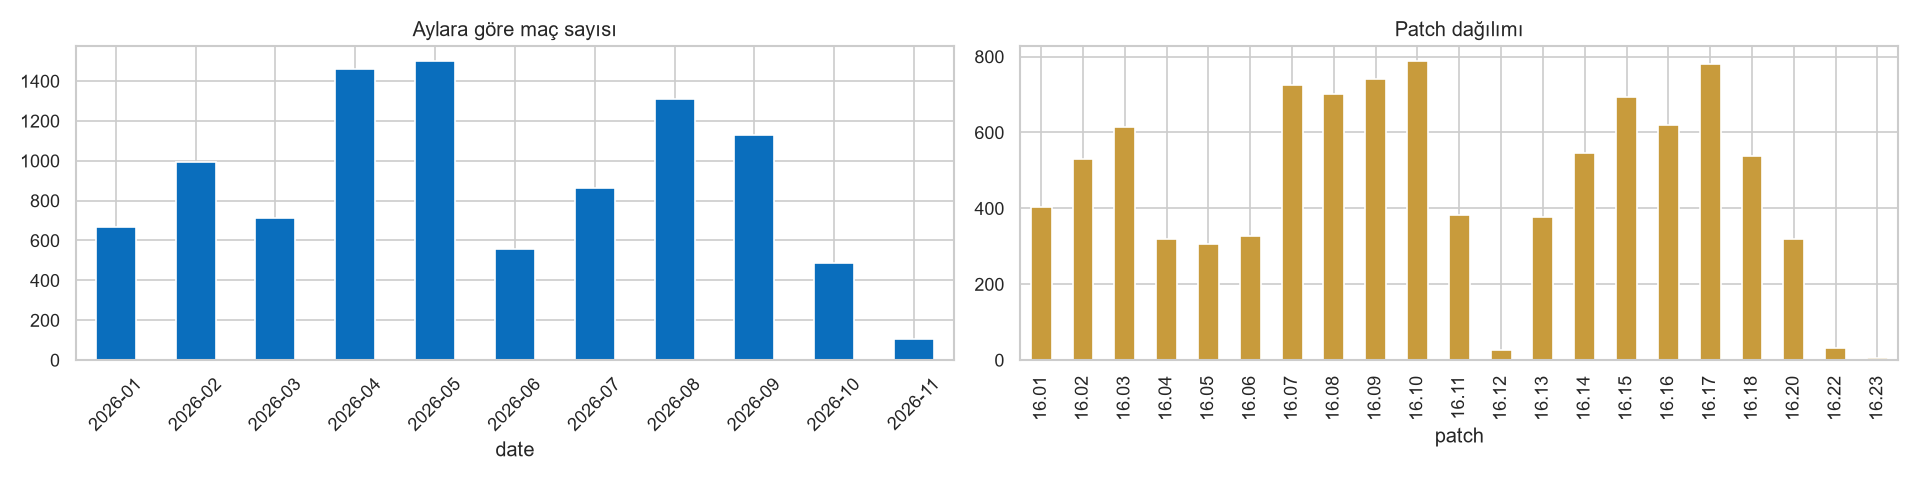
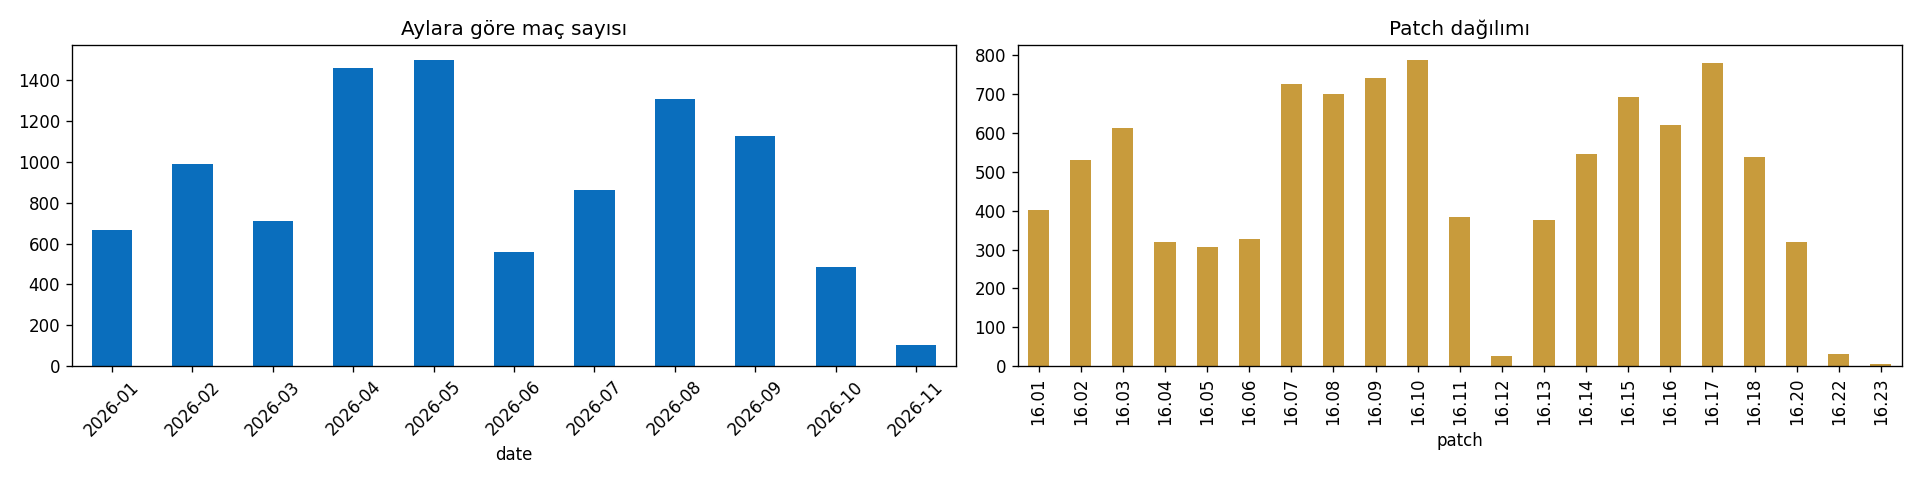
Finalize patch parsing and esports reporting (#2)

diff --git a/tests/test_app.py b/tests/test_app.py
@@ -1,7 +1,13 @@
+import json
+from pathlib import Path
+
 import pytest
 from streamlit.testing.v1 import AppTest
 
 from src.predict import load_model, predict_blue_win
+from src import train
+
+APP_PATH = str(Path(__file__).resolve().parents[1] / "app.py")
 
 # (Blue kill, Red kill, altın, XP, CS) – arayüzdeki form sırası
 SCENARIOS = [(0, 0, 0, 0, 0), (5, 1, 3000, 1500, 30), (1, 6, -4000, -2500, -50), (16, 0, 7500, 6500, 160)]
@@ -12,14 +18,14 @@ def _pct(metric):
 
 
 def test_app_runs_with_defaults():
-    at = AppTest.from_file("../app.py", default_timeout=60).run()
+    at = AppTest.from_file(APP_PATH, default_timeout=60).run()
     assert not at.exception
     assert [t.label for t in at.tabs] == ["🎯 Tahmin", "📊 Performans", "ℹ Hakkında"]
 
 
 @pytest.mark.parametrize("inputs", SCENARIOS)
 def test_app_prediction_matches_model(inputs):
-    at = AppTest.from_file("../app.py", default_timeout=60).run()
+    at = AppTest.from_file(APP_PATH, default_timeout=60).run()
     for widget, value in zip(at.number_input, inputs):
         widget.set_value(value)
     at.button[0].click().run()   # formun "Tahmin et" butonu
@@ -33,3 +39,31 @@ def test_app_prediction_matches_model(inputs):
     assert _pct(blue) + _pct(red) == pytest.approx(100, abs=0.11)
     winner = next(m.value for m in at.markdown if "Tahmini kazanan" in m.value)
     assert ("Blue" in winner) == (expected >= 0.5)
+
+
+def test_historical_comparison_reads_report_and_handles_missing_file(tmp_path, monkeypatch):
+    metrics_path = tmp_path / "metrics.json"
+    metrics_path.write_bytes(train.METRICS_PATH.read_bytes())
+    monkeypatch.setattr(train, "METRICS_PATH", metrics_path)
+    at = AppTest.from_file(APP_PATH, default_timeout=60).run()
+    assert not at.exception
+    assert any("Tarihsel değerlendirme raporu henüz mevcut değil" in item.value for item in at.caption)
+
+    report = {
+        "models": {
+            "gold_only": {"test": {"brier": 0.2, "roc_auc": 0.72, "log_loss": 0.6}},
+            "five_features": {"test": {"brier": 0.19, "roc_auc": 0.75, "log_loss": 0.59}},
+        },
+        "split": {"test": {"games": 20}},
+        "brier_comparison": {"gold_only_minus_five_features": 0.01, "ci95": [-0.02, 0.03]},
+        "interpretation": "Örnek tarihsel yorum",
+    }
+    report_path = tmp_path / "esports" / "esports_metrics.json"
+    report_path.parent.mkdir()
+    report_path.write_text(json.dumps(report), encoding="utf-8")
+    at.run()
+    assert not at.exception
+    table = at.tabs[1].dataframe[-1].value.set_index("Model")
+    assert table.loc["Beş girdi"].to_dict() == {"Brier ↓": 0.19, "ROC-AUC ↑": 0.75, "Log-loss ↓": 0.59}
+    assert any("[-0.02000, +0.03000]" in item.value for item in at.caption)
+    assert any(item.value == report["interpretation"] for item in at.markdown)

diff --git a/src/train.py b/src/train.py
@@ -19,7 +19,6 @@ from sklearn.metrics import (ConfusionMatrixDisplay, accuracy_score, brier_score
                              f1_score, log_loss, precision_score, recall_score, roc_auc_score, roc_curve)
 from sklearn.model_selection import GridSearchCV, TimeSeriesSplit
 from sklearn.pipeline import Pipeline
-from xgboost import XGBClassifier
 
 from src.data import FEATURES, PROCESSED_PATH, ROOT, TARGET, chrono_split, clean, load_raw
 from src.logistic import LOGISTIC_C_GRID, logistic_pipeline
@@ -37,10 +36,6 @@ CANDIDATES = {
     "Random Forest": (
         Pipeline([("model", RandomForestClassifier(n_estimators=300, random_state=SEED, n_jobs=-1))]),
         {"model__max_depth": [4, 6, 8, None], "model__min_samples_leaf": [1, 20, 50]},
-    ),
-    "XGBoost": (
-        Pipeline([("model", XGBClassifier(random_state=SEED, n_jobs=-1, eval_metric="logloss", subsample=0.8))]),
-        {"model__n_estimators": [200, 400], "model__max_depth": [2, 3, 4], "model__learning_rate": [0.03, 0.1]},
     ),
 }
 
@@ -81,7 +76,7 @@ def group_performance(test: pd.DataFrame, proba, min_n=MIN_GROUP_N) -> pd.DataFr
     for col in ["patch", "league"]:
         for g, d in t.groupby(col):
             both = d[TARGET].nunique() == 2
-            rows.append({"group_by": col, "group": f"{g:.2f}" if col == "patch" else g, "n": len(d),
+            rows.append({"group_by": col, "group": g, "n": len(d),
                          "blue_win_rate": d[TARGET].mean(), "accuracy": (d.pred == d[TARGET]).mean(),
                          "sign_accuracy": (d.sign == d[TARGET]).mean(),
                          "roc_auc": roc_auc_score(d[TARGET], d.p) if both else np.nan,
@@ -90,6 +85,15 @@ def group_performance(test: pd.DataFrame, proba, min_n=MIN_GROUP_N) -> pd.DataFr
 
 
 def main():
+    from xgboost import XGBClassifier
+
+    candidates = {
+        **CANDIDATES,
+        "XGBoost": (
+            Pipeline([("model", XGBClassifier(random_state=SEED, n_jobs=-1, eval_metric="logloss", subsample=0.8))]),
+            {"model__n_estimators": [200, 400], "model__max_depth": [2, 3, 4], "model__learning_rate": [0.03, 0.1]},
+        ),
+    }
     data, cleaning = clean(load_raw())
     PROCESSED_PATH.parent.mkdir(parents=True, exist_ok=True)
     data.to_csv(PROCESSED_PATH, index=False)
@@ -107,7 +111,7 @@ def main():
 
     cv = TimeSeriesSplit(n_splits=5)  # doğrulama katları her zaman eğitim katlarından sonra gelir
     fitted, cv_results, test_results = {}, {}, {}
-    for name, (pipe, grid) in CANDIDATES.items():
+    for name, (pipe, grid) in candidates.items():
         gs = GridSearchCV(pipe, grid, cv=cv, scoring="roc_auc", n_jobs=-1)
         gs.fit(X_tr, y_tr)
         fitted[name] = gs.best_estimator_

diff --git a/app.py b/app.py
@@ -7,6 +7,8 @@ import streamlit as st
 from src.predict import load_model, predict_blue_win
 from src.train import FIG_DIR, METRICS_PATH
 
+ESPORTS_METRICS_PATH = METRICS_PATH.parent / "esports" / "esports_metrics.json"
+
 st.set_page_config(page_title="LoL Win Predictor", page_icon="⚔", layout="wide")
 
 st.markdown("""
@@ -108,6 +110,25 @@ with tab_perf:
     g3, g4 = st.columns(2)
     g3.image(str(FIG_DIR / "confusion_matrix.png"), caption="Karışıklık matrisi")
     g4.image(str(FIG_DIR / "calibration.png"), caption="Olasılık kalibrasyonu")
+
+    st.subheader("Tarihsel olasılık karşılaştırması")
+    try:
+        esports = json.loads(ESPORTS_METRICS_PATH.read_text(encoding="utf-8"))
+    except FileNotFoundError:
+        st.caption("Tarihsel değerlendirme raporu henüz mevcut değil.")
+    else:
+        historical_models = {"Yalnız altın": "gold_only", "Beş girdi": "five_features"}
+        historical_metrics = {"Brier ↓": "brier", "ROC-AUC ↑": "roc_auc", "Log-loss ↓": "log_loss"}
+        rows = []
+        for label, name in historical_models.items():
+            scores = esports["models"][name]["test"]
+            rows.append({"Model": label, **{title: scores[key] for title, key in historical_metrics.items()}})
+        st.dataframe(pd.DataFrame(rows).round(5), hide_index=True, width="stretch")
+        comparison = esports["brier_comparison"]
+        low, high = comparison["ci95"]
+        st.caption(f"{esports['split']['test']['games']:,} test maçı · Brier farkı (yalnız altın − beş girdi) "
+                   f"{comparison['gold_only_minus_five_features']:+.5f} · Seri bazlı %95 GA [{low:+.5f}, {high:+.5f}]")
+        st.write(esports["interpretation"])
 
 with tab_about:
     s, c = metrics["split"], metrics["cleaning"]

diff --git a/notebooks/build_eda_notebook.py b/notebooks/build_eda_notebook.py
@@ -19,7 +19,7 @@ cells = [
          "print('Taraf dağılımı:', df.side.value_counts().to_dict())\n"
          "print('Her maçta tam bir kazanan var mı?', (df.groupby('game_id').result.sum() == 1).all())\n"
          "df.dtypes.value_counts()"),
-    code("df.dtypes.to_frame('tip').T"),
+    code("df[['date', 'league', 'patch', 'result']].dtypes.to_frame('tip').T"),
     md("## 2. Eksik değerler ve tekrarlanan kayıtlar"),
     code("na = df.isna().sum(); na[na > 0].sort_values(ascending=False).to_frame('eksik')"),
     code("print('Tam tekrar eden satır:', df.duplicated().sum())\nprint('Tekrar eden (game_id, side):', df.duplicated(['game_id', 'side']).sum())"),
@@ -75,7 +75,7 @@ cells = [
     md("## 9. Tarih ve patch dağılımı"),
     code("fig, axes = plt.subplots(1, 2, figsize=(16, 4))\ndata.date.dt.strftime('%Y-%m').value_counts().sort_index().plot.bar(ax=axes[0], color='#0a6ebd', rot=45)\n"
          "axes[0].set_title('Aylara göre maç sayısı')\n"
-         "data.patch.map('{:.2f}'.format).value_counts().sort_index().plot.bar(ax=axes[1], color='#c89b3c'); axes[1].set_title('Patch dağılımı')\n"
+         "data.sort_values('date').groupby('patch', sort=False).size().plot.bar(ax=axes[1], color='#c89b3c'); axes[1].set_title('Patch dağılımı')\n"
          "plt.tight_layout(); plt.savefig(FIG/'date_patch.png', dpi=120); plt.show()"),
     code("data.league.value_counts().head(15).to_frame('maç')"),
     md("Veri 2026 Ocak–Kasım arasını kapsıyor. Meta değiştikçe (patch) ilişkiler değişebileceğinden modelde **kronolojik bölme** "

diff --git a/src/evaluate_esports.py b/src/evaluate_esports.py
@@ -121,7 +121,7 @@ def group_performance(test: pd.DataFrame, probabilities: dict) -> pd.DataFrame:
 
 
 def evaluate_raw(raw_path: Path) -> tuple[dict, pd.DataFrame]:
-    raw = load_raw(raw_path, patch_as_text=True)
+    raw = load_raw(raw_path)
     with raw_path.open("rb") as source:
         digest = hashlib.file_digest(source, "sha256").hexdigest()
     data, cleaning = clean(raw, keep_team_names=True)
@@ -131,8 +131,6 @@ def evaluate_raw(raw_path: Path) -> tuple[dict, pd.DataFrame]:
     test = data_in_window.loc[data_in_window["date"] >= TEST_START]
     if earlier.empty or test.empty:
         raise ValueError("Sabit 2026 tarih aralığında hem eğitim hem test maçı bulunmalı.")
-    if not data_in_window[TARGET].isin([0, 1]).all():
-        raise ValueError("Maç sonucu 0 veya 1 olmalı.")
     train = purge_series(earlier, test)
     folds, fold_details = validation_folds(train)
 
@@ -177,7 +175,7 @@ def evaluate_raw(raw_path: Path) -> tuple[dict, pd.DataFrame]:
         "interpretation": (
             "Beş girdi bu tarihsel test döneminde Brier skorunu iyileştirdi."
             if comparison["five_features_improved"] else
-            "Güven aralığı bu tarihsel test döneminde beş girdinin Brier skorunu iyileştirdiğini göstermedi."
+            "Bu tarihsel testte beş girdinin Brier skoruna ek katkısı istatistiksel olarak anlamlı bulunmadı."
         ),
     }
     return metrics, group_performance(test, probabilities)

diff --git a/src/data.py b/src/data.py
@@ -13,10 +13,10 @@ AT10_COLS = ["goldat10", "killsat10", "deathsat10", "golddiffat10", "xpdiffat10"
 TARGET = "result"
 
 
-def load_raw(path=RAW_PATH, *, patch_as_text=False) -> pd.DataFrame:
+def load_raw(path=RAW_PATH) -> pd.DataFrame:
     if not Path(path).exists():
         raise FileNotFoundError(f"Ham veri bulunamadı: {path}. Dosyayı data/raw/ içine koyun.")
-    return pd.read_csv(path, parse_dates=["date"], dtype={"patch": "string"} if patch_as_text else None)
+    return pd.read_csv(path, parse_dates=["date"], dtype={"patch": "string"})
 
 
 def clean(df: pd.DataFrame, *, keep_team_names=False) -> tuple[pd.DataFrame, dict]:
@@ -46,6 +46,8 @@ def clean(df: pd.DataFrame, *, keep_team_names=False) -> tuple[pd.DataFrame, dic
     # shortcut: bo_format/match_in_series veride tamamen boş; gece yarısını aşan seriler iki seri sayılır.
     pair = blue[["team_name", "opponent_team_name"]].apply(lambda r: " vs ".join(sorted(r.astype(str))), axis=1)
     out["series"] = blue["date"].dt.strftime("%Y-%m-%d") + " " + pair
+    if not out[TARGET].isin([0, 1]).all():
+        raise ValueError("Maç sonucu 0 veya 1 olmalı.")
     out[TARGET] = out[TARGET].astype(int)
     # Aynı zaman damgalı maçlar var (8): game_id ikincil anahtar -> deterministik sıra.
     out = out.sort_values(["date", "game_id"], kind="stable").reset_index(drop=True)

diff --git a/tests/test_pipeline.py b/tests/test_pipeline.py
@@ -114,10 +114,20 @@ def test_paired_bootstrap_zero_diff_when_identical():
 
 
 def test_group_performance_flags_small_groups():
-    t = pd.DataFrame({"patch": [16.1] * 4 + [16.2] * 2, "league": ["A"] * 6,
+    t = pd.DataFrame({"patch": ["16.10"] * 4 + ["16.1"] * 2, "league": ["A"] * 6,
                       "golddiffat10": [1, -1, 1, -1, 1, -1], "result": [1, 0, 1, 0, 1, 0]})
     g = group_performance(t, pd.Series([.9, .1, .8, .2, .7, .3]).to_numpy(), min_n=4)
-    assert g.set_index("group").loc["16.10", "reliable"] and not g.set_index("group").loc["16.20", "reliable"]
+    assert g.set_index("group").loc["16.10", "reliable"] and not g.set_index("group").loc["16.1", "reliable"]
+
+
+def test_clean_rejects_fractional_match_result():
+    from src.data import AT10_COLS
+
+    row = dict.fromkeys(AT10_COLS, 1)
+    row.update(game_id="synthetic", date=pd.Timestamp("2026-02-01"), side="Blue", league="LCK",
+               patch="16.10", team_name="A", opponent_team_name="B", result=0.5)
+    with pytest.raises(ValueError, match="0 veya 1"):
+        clean(pd.DataFrame([row]))
 
 
 def test_calibration_beats_constant_reference_and_reports_exist():

diff --git a/tests/test_evaluate_esports.py b/tests/test_evaluate_esports.py
@@ -98,7 +98,7 @@ class EsportsEvaluationTests(unittest.TestCase):
             self.assertEqual(legacy.read_text(encoding="utf-8"), "ilk teslim")
             legacy_clean, _ = clean(load_raw(raw))
             self.assertNotIn("team_name", legacy_clean)
-            self.assertEqual(legacy_clean["patch"].nunique(), 1)
+            self.assertEqual(set(legacy_clean["patch"]), {"16.1", "16.10"})
 
             metrics = json.loads(first[0])
             self.assertEqual(metrics["snapshot"]["raw_sha256"], hashlib.sha256(raw.read_bytes()).hexdigest())

diff --git a/README.md b/README.md
@@ -9,7 +9,7 @@ Profesyonel LoL maçlarının ilk 10 dakikasındaki altın, XP, CS farkı ve kil
 
 ---
 
-## Sonuçlar (gerçek çalıştırma, `reports/metrics.json`)
+## İlk teslimin model seçimi (`reports/metrics.json`)
 
 | Model | CV ROC-AUC (5 kat) | Test Accuracy | Precision | Recall | Specificity | F1 | Test ROC-AUC | Brier |
 |---|---|---|---|---|---|---|---|---|
@@ -23,15 +23,28 @@ Profesyonel LoL maçlarının ilk 10 dakikasındaki altın, XP, CS farkı ve kil
 - Karışıklık matrisi (LR, test, 1956 maç): TN=595, FP=334, FN=246, TP=781.
 - **Kalibrasyon:** sabit olasılık referansı (her maça eğitimdeki Blue oranı 0.540) Brier 0.2496 / log-loss 0.692; model Brier 0.1912 / log-loss 0.560 → **Brier Skill Score 0.234**. Ortalama tahmin 0.546, gerçek oran 0.525: test döneminde Blue avantajı azaldığı için model Blue'yu ~2 puan fazla tahmin ediyor.
 
-## Teknik denetim (v1.1)
+## Tarihsel olasılık karşılaştırması (`reports/esports/esports_metrics.json`)
+
+İki lojistik regresyon modeli aynı maçlarda karşılaştırıldı. Yalnız altın modeli 10. dakika altın farkını, beş girdili model ayrıca XP, CS ve kill bilgilerini kullanır. Hiperparametre seçimi, beş kronolojik doğrulama katında ortalama Brier skoruna göre yapıldı.
+
+| Model | Brier ↓ | ROC-AUC ↑ | Log-loss ↓ |
+|---|---:|---:|---:|
+| Yalnız altın | 0,19397 | 0,77211 | 0,56671 |
+| Beş girdi | 0,19122 | 0,77944 | 0,56034 |
+
+1.956 test maçında Brier iyileşmesi **0,00276**, seri bazlı %95 güven aralığı **[−0,00055, +0,00606]**. Aralık sıfırı içeriyor. Bu dönemde beş girdinin istatistiksel olarak anlamlı ek faydası gösterilemedi.
+
+Tarihsel veri penceresi `2026-01-01 00:00:00`–`2026-11-21 17:02:48`, test başlangıcı `2026-08-25 17:19:21`. Testle aynı tahmini seriye düşen 10 maç eğitimden çıkarıldı ve 7.810 eğitim maçı kaldı. Seri eşleştirmesi lig, takvim günü ve takım çiftine dayanır. Gece yarısını aşan seriler ayrılabilir, aynı gün oynanan ayrı seriler birleşebilir. Bu test dönemi ilk teslimde de kullanıldı.
+
+## İlk teslimin teknik denetimi
 
 | # | Kontrol | Durum | Not |
 |---|---|---|---|
 | 1 | Yalnızca 10. dk özellikleri | PASS | 5 özelliğin hepsi `*at10`; maç sonu, kimlik, 15. dk sütunları yok (testli) |
 | 2 | Eksik sütun raporu | PASS | `bo_format`, `match_in_series`, `game_in_match` %100 boş; `split` 2.964 satır (EWC, LJL, MSI, Worlds, promotion…); ban'lar 315 satır / 233 maç. Hiçbiri kullanılmıyor → işlem yapılmadı |
 | 3a | Kronolojik bölme | PASS (düzeltildi) | 8 aynı zaman damgası vardı; sıralama `game_id` ile deterministik yapıldı ve bölme eşit zaman damgalarını ayırmayacak şekilde değiştirildi. Sonuç değişmedi (sınırda çakışma yoktu) |
-| 3b | TimeSeriesSplit sırası | PASS | Her katta eğitim tarihi ≤ doğrulama tarihi (testli) |
-| 3c | Seri (Bo3/Bo5) sızıntısı | PASS | Sınırı aşan yalnız 7 test maçı; model takım kimliği görmediği için seriyi ezberleyemez |
+| 3b | TimeSeriesSplit sırası | PASS | İlk teslimde eğitim tarihi ≤ doğrulama tarihi. Tarihsel deneyde eşit zaman damgaları aynı tarafta tutulur. |
+| 3c | Seri (Bo3/Bo5) çakışması | Saptandı | İlk teslimde yaklaşık seri anahtarıyla 7 test maçı eşleşti. Tarihsel deney sınırı aşan eşleşmeleri eğitimden çıkarır. |
 | 4 | 175 maçın çıkarılması | PASS | İki tarafta da aynı 175 maç, maç sonu verisi dolu; geçerli sıfırlar (5 maç altın farkı 0, 1.272 maç Blue kill 0) korundu |
 | 5 | Patch/lig performansı | PASS | `reports/group_performance.csv`; n ≥ 100 olan 4 patch ve 3 lig dışında sonuç çıkarılmadı |
 | 6 | Altın işaretiyle kıyas | PASS | Fark küçük ve anlamlı değil (yukarıda) |
@@ -41,6 +54,8 @@ Profesyonel LoL maçlarının ilk 10 dakikasındaki altın, XP, CS farkı ve kil
 
 - **Kaynak:** ChainCC Open LoL Esports Dataset 2026 – <https://chaincc.lol/free/data>
 - **Dosya:** `chaincc-teams-2026.csv.gz` → `data/raw/` altına konur
[1 lines of base64/hex data omitted]
+- Patch sürümleri metin olarak okunur. `16.1` ve `16.10` ayrı sürümler olarak raporlanır.
 - **Lisans:** CC BY 4.0 (veri sağlayıcının beyanı). Atıf: *"Data: ChainCC Open LoL Esports Dataset 2026, chaincc.lol, CC BY 4.0"*
 - Doğrulanan boyut: 19.902 satır (maç başına Blue + Red), 9.951 maç, 74 sütun, 2026-01-01 – 2026-11-21.
 - Ham veri **Git'e eklenmez** (`.gitignore`), çünkü upstream yeniden dağıtım koşulları kesinleştirilmedi. Projeyi klonlayan kişi dosyayı kaynaktan indirip `data/raw/` içine koymalıdır.
@@ -103,6 +118,7 @@ Veri dosyasını `data\raw\chaincc-teams-2026.csv.gz` olarak yerleştirin, ardı
 ```powershell
 .\.venv\Scripts\python.exe -m src.train          # veri işleme + 3 model + metrikler + grafikler (~35 sn)
 .\.venv\Scripts\python.exe -m src.predict        # örnek tahminler
+.\.venv\Scripts\python.exe -m src.evaluate_esports --raw data/raw/chaincc-teams-2026.csv.gz --output-dir reports/esports
 .\.venv\Scripts\python.exe -m pytest -q -p no:cacheprovider   # testler
 .\.venv\Scripts\python.exe -m streamlit run app.py              # uygulama → http://localhost:8501
 ```

diff --git a/PROJECT_EXPLANATION.md b/PROJECT_EXPLANATION.md
@@ -197,6 +197,18 @@ Patch'ler arasında belirgin bir bozulma yok. HC'deki düşük skor 102 maçla d
 - Ağaç modellerinin sığ ağaçları seçmesi de ilişkinin büyük ölçüde doğrusal/monoton olduğunu gösteriyor (altın farkı ↑ → kazanma ↑).
 - Permütasyon önemi (test ROC-AUC düşüşü): golddiff 0.157, xpdiff 0.028, csdiff 0.009, kills 0.001, deaths ≈ 0 → model esasen altın farkına dayanıyor.
 
+### Tarihsel olasılık karşılaştırması
+
+İlk teslim üç modeli doğrulama ROC-AUC'siyle seçti. Tarihsel deney iki lojistik regresyonu karşılaştırır. Birincisi yalnız 10. dakika altın farkını, ikincisi beş girdiyi kullanır. Beş ileri yürüyen doğrulama katında `C`, ortalama Brier skoruna göre seçilir. Eşit zaman damgaları birlikte tutulur. Lig, gün ve takım çiftiyle eşleşen seriler doğrulama ve test sınırlarında eğitimden çıkarılır. Gece yarısını aşan seriler ayrılabilir, aynı gün oynanan ayrı seriler birleşebilir.
+
+2026-01-01 00:00:00–2026-11-21 17:02:48 aralığında test başlangıcı 2026-08-25 17:19:21. Testte 1.956 maç var. Testle seri eşleşmesi nedeniyle eğitimden 10 maç çıkarıldı. Brier, ROC-AUC ve log-loss sırasıyla yalnız altın için **0,19397 / 0,77211 / 0,56671**, beş girdi için **0,19122 / 0,77944 / 0,56034**. Seri bazlı %95 güven aralığı **[−0,00055, +0,00606]** olduğu için Brier iyileşmesi istatistiksel olarak anlamlı bulunmadı. Test dönemi ilk teslimde de görüldü. [Tarihsel rapor](reports/esports/esports_metrics.json)
+
[1 lines of base64/hex data omitted]
+
+```powershell
+python -m src.evaluate_esports --raw data/raw/chaincc-teams-2026.csv.gz --output-dir reports/esports
+```
+
 ## 12. Streamlit modeli nasıl kullanıyor?
 
 `app.py`:
@@ -227,7 +239,7 @@ C: (1) Sadece 10. dk'da bilinen özellikler; maç sonu sütunları yok. (2) Maç
 C: Doğrulukta +1 puan, ama bootstrap %95 güven aralığı 0'ı içeriyor; anlamlı değil. Modelin katkısı yaklaşık kalibre olasılık (Brier Skill Score 0.234; kusursuz değil, Blue ~2 puan fazla tahmin ediliyor). Bunu saklamak yerine açıkça raporladık.
 
 **S: Aynı Bo3/Bo5 serisinin maçları hem eğitimde hem testte olabilir mi?**
-C: Seriyi "aynı gün + aynı takım çifti" olarak tanımladık (veride seri sütunları tamamen boş). Kronolojik sınırı aşan yalnızca 7 test maçı var ve model takım adı/kimliği görmediği için seriyi ezberleyemez. Risk ihmal edilebilir.
+C: İlk teslimde gün ve takım çiftine göre 7 test maçının eğitimle eşleştiği görüldü. Tarihsel deney lig bilgisini de kullanır ve sınırı aşan eşleşmeleri eğitimden çıkarır. Kaynakta kesin seri kimliği bulunmadığı için bu ayrım yaklaşık kalır.
 
 **S: Neden random değil kronolojik bölme?**
 C: Gerçekte model geçmiş maçlarla eğitilip gelecek maçları tahmin eder. Meta/patch zamanla değişir; kronolojik bölme bu gerçek senaryoyu taklit eder ve daha dürüst bir skor verir.

diff --git a/PRESENTATION_NOTES.md b/PRESENTATION_NOTES.md
@@ -45,6 +45,18 @@ Tüm sayılar `reports/metrics.json` dosyasından alınmıştır. Ayrıntılı a
 - Kalibrasyon: sabit olasılık referansına göre Brier Skill Score 0.234. **Yaklaşık kalibre, kusursuz değil:** ortalama tahmin 0.546, gerçek oran 0.525.
 - En önemli özellik: altın farkı (permütasyon önemi 0.157).
 
+### Tarihsel olasılık karşılaştırması
+
+Üç model ve ROC-AUC ile seçim ilk teslime ait. Tarihsel deney, yalnız altın farkını ve beş girdiyi kullanan iki lojistik regresyonu karşılaştırır. Beş kronolojik katta seçim Brier skoruyla yapılır ve sınırı aşan tahmini seri eşleşmeleri eğitimden çıkarılır. Seri anahtarı lig, gün ve takım çiftidir. Bu yaklaşık anahtar, gece yarısını aşan seriyi ayırabilir veya aynı gün oynanan ayrı serileri birleştirebilir.
+
+Veri penceresi `2026-01-01 00:00:00`–`2026-11-21 17:02:48`. İlk teslimde de görülen test dönemi `2026-08-25 17:19:21` tarihinde başlıyor ve 1.956 maç içeriyor. Brier skoru yalnız altınla **0,19397**, beş girdiyle **0,19122**. %95 güven aralığı **[−0,00055, +0,00606]** sıfırı içeriyor. Sonucu sunarken ek faydanın istatistiksel olarak gösterilemediğini söyle. Performans sekmesinde iki modelin ROC-AUC ve log-loss değerleri de yer alır.
+
[1 lines of base64/hex data omitted]
+
+```powershell
+python -m src.evaluate_esports --raw data/raw/chaincc-teams-2026.csv.gz --output-dir reports/esports
+```
+
 ## 8. Sınırlılıklar (1 dk)
 - Yalnızca 5 özellik; draft, takım gücü ve objektifler yok.
 - 10. dakikada maç hâlâ açık: ~%70 doğal bir tavan.
